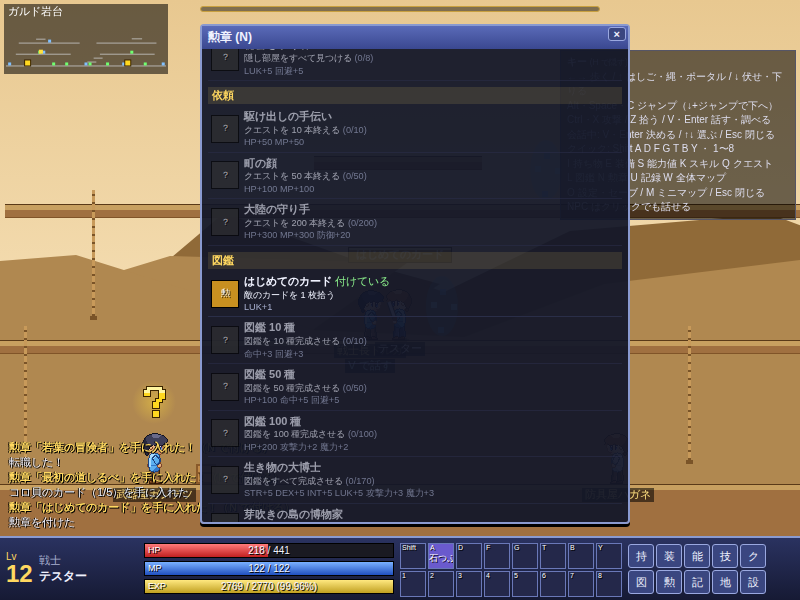
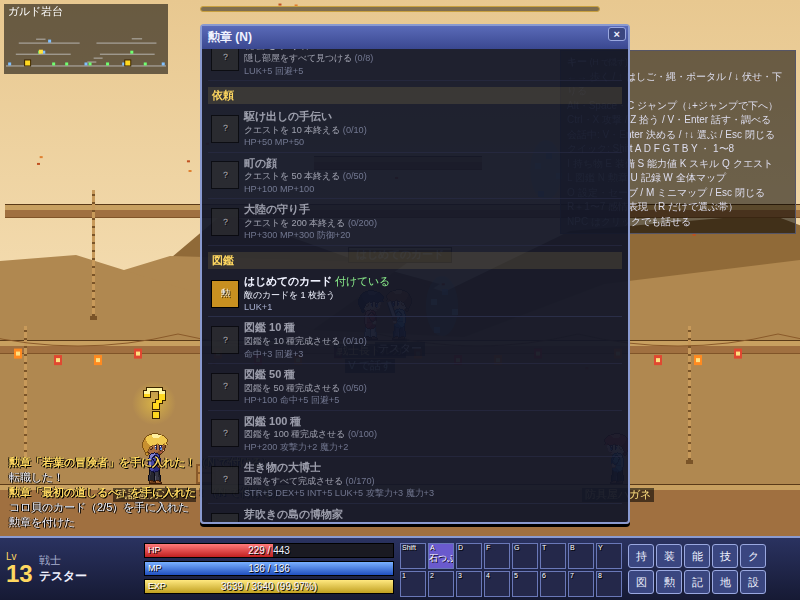
楽しさの要素: 設計書（CORE・ITEMS・MONSTERS・WORLD・UI）と README、試遊版の確かめ（感情表現・景品の機械・遊び場・美容院・船の旅・フィールドボス・天気）・写真、ダンジョンの課題を部屋の数だけくり返す
Claude-Session: https://claude.ai/code/session_01Nf7hFMjpxysQNjHqMqSLTZ

diff --git a/classic-unity/Web/wwwroot/js/fun.js b/classic-unity/Web/wwwroot/js/fun.js
@@ -41,6 +41,17 @@ export class Fun {
     this.hudEl.addEventListener('click', (e) => this.onClick(e));
     addEventListener('keyup', (e) => this.keyUp(e));
     this.patch();
+    // 町の機械・係・ダンジョンの仕掛け・季節の飾りは NPC と同じ所で描く（主人公より奥）
+    const R = game.renderer, drawNpcs = R.drawNpcs.bind(R);
+    R.drawNpcs = (g, f, ui) => {
+      const fr = this.fr;
+      if (fr) {
+        if (fr.season) this.drawSeason(g, fr.season, Math.round(R.cam.x));
+        if (fr.dungeon) this.drawDungeon(g, fr.dungeon);
+      }
+      drawNpcs(g, f, ui);
+      if (fr) for (const s of fr.spots || []) this.drawSpot(g, s, s.id === fr.near && !ui?.talking);
+    };
   }
 
   // ---------------- ほかの画面へのつなぎ（会話の窓の乗り物・Esc・会話の間は動かない）
@@ -157,9 +168,6 @@ export class Fun {
     const cx = Math.round(R.cam.x), cy = Math.round(R.cam.y);
     g.save();
     g.setTransform(S, 0, 0, S, -cx * S, -cy * S);
-    if (fr.season) this.drawSeason(g, fr.season, cx, cy);
-    for (const s of fr.spots || []) this.drawSpot(g, s, s.id === fr.near);
-    if (fr.dungeon) this.drawDungeon(g, fr.dungeon);
     // 珍しい色違いの個体（光る輪と印）・フィールドボス（名札）
     for (const m of f.mo) {
       const flags = m[9];
@@ -338,8 +346,11 @@ export class Fun {
     if (render) this.render();
   }
 
-  itemName(id) { return this.game.db.items[id]?.name || id; }
-  icon(id) { const d = this.game.db.items[id]; return `<span class="ic" style="background:${itemColor(d)}"></span>`; }
+  itemName(id) {
+    if (String(id).startsWith('card.')) return (this.game.db.monsters[id.slice(5)]?.name || id) + 'のカード（図鑑）';
+    return this.game.db.items[id]?.name || id;
+  }
+  icon(id) { const d = this.game.db.items[id]; return `<span class="ic" style="background:${String(id).startsWith('card.') ? '#f0e0b0' : itemColor(d)}"></span>`; }
 
   render() {
     const u = this.ui;
@@ -486,7 +497,7 @@ const CSS = `
 #funwin .memory { display: grid; grid-template-columns: repeat(4, 52px); gap: 4px; justify-content: center; margin: 6px 0; }
 #funwin .mc { height: 52px; font-size: 22px; background: #3a4680; } #funwin .mc.up { background: #f8f4e8; } #funwin .mc:disabled { opacity: 1; }
 #funwin .mc.mine { box-shadow: inset 0 0 0 3px #60c0ff; } #funwin .mc.npc { box-shadow: inset 0 0 0 3px #ff8060; }
-#funhud { position: absolute; right: 6px; top: 64px; width: 220px; display: flex; flex-direction: column; gap: 4px; align-items: flex-end; }
+#funhud { position: absolute; left: 6px; top: 80px; width: 220px; display: flex; flex-direction: column; gap: 4px; align-items: flex-start; }
 #funhud .voy, #funhud .emo { pointer-events: auto; background: var(--panel); border: 1px solid var(--edge); border-radius: 3px; padding: 4px 6px; width: 100%; }
 #funhud .vbar { height: 6px; background: #222; margin: 3px 0; } #funhud .vbar i { display: block; height: 100%; background: #60c0ff; }
 #funhud .bad { color: var(--bad); font-weight: bold; }

diff --git a/classic-unity/Web/wwwroot/index.html b/classic-unity/Web/wwwroot/index.html
@@ -11,7 +11,7 @@
       <label>名前 <input id="name" maxlength="12" value="ぼうけんしゃ"></label>
       <div class="btns"><button id="btnCont">続きから</button><button id="btnNew">新しく始める</button></div>
       <div id="confirmNew" class="confirm" hidden>今のセーブを消して最初から始めますか？ <button id="btnNewYes" class="warn">消して始める</button><button id="btnNewNo">やめる</button></div>
-      <div class="keys">←→ 歩く ・ ↑ はしご/縄/ポータル ・ ↓ 伏せ ・ Alt/Space ジャンプ ・ Ctrl 攻撃 ・ Z 拾う ・ V 話す（会話も V で進む・↑↓ で選ぶ）<br>クイックスロット Shift A D F G T B Y・1〜8 ・ I 持ち物 ・ E 装備 ・ S 能力値 ・ K スキル ・ Q クエスト ・ O 設定<br>L 敵の図鑑 ・ N 勲章 ・ U 記録 ・ W 全体マップ ・ M ミニマップ ・ H キーの表</div>
+      <div class="keys">←→ 歩く ・ ↑ はしご/縄/ポータル ・ ↓ 伏せ ・ Alt/Space ジャンプ ・ Ctrl 攻撃 ・ Z 拾う ・ V 話す（会話も V で進む・↑↓ で選ぶ）<br>クイックスロット Shift A D F G T B Y・1〜8 ・ I 持ち物 ・ E 装備 ・ S 能力値 ・ K スキル ・ Q クエスト ・ O 設定<br>L 敵の図鑑 ・ N 勲章 ・ U 記録 ・ W 全体マップ ・ M ミニマップ ・ H キーの表 ・ R＋1〜7 感情表現</div>
     </div>
   </div>
 </div>

diff --git a/classic-unity/Web/wwwroot/js/ui.js b/classic-unity/Web/wwwroot/js/ui.js
@@ -66,6 +66,7 @@ export class Ui {
       I 持ち物 E 装備 S 能力値 K スキル Q クエスト<br>
       L 図鑑 N 勲章 U 記録 W 全体マップ<br>
       O 設定・セーブ / M ミニマップ / Esc 閉じる<br>
+      R＋1〜7 感情表現（R だけで選ぶ帯）<br>
       NPC はクリックでも話せる`;
     const q = this.el('quick');
     q.innerHTML = QUICK_KEYS.map((k, i) => `<div class="qs" data-q="${i}"><em>${k}</em><span></span><small></small></div>`).join('');

diff --git a/classic-unity/Core/Game/GameSession.Fun.cs b/classic-unity/Core/Game/GameSession.Fun.cs
@@ -626,7 +626,7 @@ namespace Lumina.Core.Game
             for (int i = 0; i < bounds.Count; i++)
             {
                 var (x1, x2) = bounds[i];
-                var t = new DungeonRoomTask { X1 = x1, X2 = x2, Kind = i < bounds.Count - 1 && i < tasks.Count ? tasks[i] : null };
+                var t = new DungeonRoomTask { X1 = x1, X2 = x2, Kind = i < bounds.Count - 1 && tasks.Count > 0 ? tasks[i % tasks.Count] : null };
                 t.Done = t.Kind == null;
                 // 部屋の中の足場（地面以外）
                 var plats = new List<(double x, double y, double top)>();

diff --git a/classic-unity/docs/CORE.md b/classic-unity/docs/CORE.md
@@ -22,6 +22,7 @@ classic-unity/
     World/     MapData（マップの JSON の形）・MapInstance（敵・落ちている物・湧き直し）
     Save/      SaveData・SaveSerializer・SaveMigrations・SaveStore（壊れない書き方）・FileSystem
     Collection/ MonsterBook（敵の図鑑のカード・段）・BookIndex（図鑑に載る敵と地域）・Medals（勲章の条件）・PlayRecords（記録と統計）
+    Fun/       FunData（fun.json の形）・FunState（遊び場の点数・見た目・フィールドボスの時計。セーブの fun）・Gomoku（五目並べと係の考え）・MemoryGame（神経衰弱）
     Town/      SystemsData（systems.json の形）・Storage（倉庫・共有の AccountData）・PetState・DailyLog（実時間の 1 日 N 回）・QuizSession
     Game/      GameSession（全部をまとめる。Unity が持つのはこれ 1 つ。.Combat/.Skills/.Status/.Items/.Quests/.Mechanics/.Town/.Jobs/.Rooms/.Pets/.Records/.Collection に分けてある）・PlayerInput・GameEvents・AvatarPose
     Data/      GameData（JSON を読む）・IDataSource
@@ -86,7 +87,7 @@ session.Character / Stats / Inventory / Equipment / Skills / Buffs / Status / Qu
 
 - **入力**（`PlayerInput`）: 押している間の物（Left/Right/Up/Down/Jump/Attack/Pickup）と、押した瞬間の物（JumpPressed/UpPressed/InteractPressed/SkillPressed/ItemPressed）。押した瞬間の物は Core が次の固定の更新で読むまで覚えている。キー配置は `Unity/InputBridge.cs`。
 - **座標**: Core は 1 px = 1・y は下が正。Unity（PPU = 1）では `(x, -y)`。Pixel Perfect Camera は 800×600。
-- **UI から呼ぶ操作**: `Talk(npcId)` → `NpcDialog`（受けられる・報告できるクエスト、店、宿屋、乗り物、`Say` = 話しかけるたびに変わる一言、`Hint` = 進めているクエストの残り。受けた・報告した後に窓を作り直す時は `Talk(npcId, true)` で一言を進めない）／`AcceptQuest`／`CompleteQuest`／`Buy`／`Sell`／`RestAtInn`／`Travel`／`UseItem`／`UseSkill`／`SetQuickSlot`／`EquipFromInventory`／`Unequip`／`ApplyScrollToEquipped`／`ApplyScrollToInventory`／`SpendAp`／`SpendApHp`／`SpendApMp`／`LearnSkill`／`AdvanceJob`／`AdvanceJob2`（2 次: 試験の証と枝）／`Revive`／`SaveNow`／`NpcBulb`（頭の上のマーク: 1 = 受けられる「？」、2 = 報告できる電球）。
+- **UI から呼ぶ操作**: `Talk(npcId)` → `NpcDialog`（受けられる・報告できるクエスト、店、宿屋、乗り物、`Say` = 話しかけるたびに変わる一言、`Hint` = 進めているクエストの残り。受けた・報告した後に窓を作り直す時は `Talk(npcId, true)` で一言を進めない）／`AcceptQuest`／`CompleteQuest`／`Buy`／`Sell`／`RestAtInn`／`Travel`／`UseItem`／`UseSkill`／`SetQuickSlot`／`EquipFromInventory`／`Unequip`／`ApplyScrollToEquipped`／`ApplyScrollToInventory`／`SpendAp`／`SpendApHp`／`SpendApMp`／`LearnSkill`／`AdvanceJob`／`AdvanceJob2`（2 次: 試験の証と枝）／`Revive`／`SaveNow`／`Board`・`VoyageSkip`・`Gacha`・`DoEmote` などの楽しさの要素（4-13）／`NpcBulb`（頭の上のマーク: 1 = 受けられる「？」、2 = 報告できる電球）。
   NPC のセリフ: `Data/tools/world/npc_lines.mjs` → `npcs.json` の `lines` → `NpcDef.Lines`・`NpcData.Lines`（`Game/NpcLines.cs`。先頭の `[条件]`（lv・tier・line・done・doing）が合う一言を先に、話しかけた回数で順に変える。`{name}`・`{job}`・`{lv}` を置き換える）。
   町の仕組み（4-11）: `StorageDeposit`／`StorageWithdraw`／`StorageDepositMeso`／`StorageWithdrawMeso`／`StorageExpand`／`ShopItems`（今日の品）／`Recharge`（詰め直し）／`TaxiTo`・`TaxiFee`／`Craft`・`CraftsAt`／`SitOnChair`・`StandUp`（または椅子を `UseItem`）／`FeedPet`・`TalkToPet`・`SetPetOut`・`RenamePet`（ペットの品・餌・技の本は `UseItem`）／`StartQuiz`・`AnswerQuiz`（賢者の石を `Interact` すると始まる）／`UseMasterBook`／`CanEnterRoom`・`RoomEntriesLeft`。
   読む物: `session.Storage`・`Pets`（X/Y/Motion）・`Quiz`（Current: 問題と混ぜた選択肢）・`CurrentRoom`・`RoomTimeLeft`/`RoomTimerRunning`/`RoomCleared`・`Sitting`（Pose.Motion = "sit"）・`Daily`。
@@ -245,7 +246,7 @@ session.Character / Stats / Inventory / Equipment / Skills / Buffs / Status / Qu
   `{"format":"lumina-save","seq":12,"length":3456,"crc32":"89abcdef","data":{…}}`
 - 書く順番: `.tmp` に書いて fsync → 読み直して確かめる → bak を 1 つずつ後ろへ → 今のセーブを bak1 へ → `.tmp` で一度に置き換え。**どこで落ちても、前の版か新しい版のどちらかが必ず読める**（テストで全部の手順で「落ちた」を再現。ちぎれた書き込みも）。
 - 読む順番: 今のセーブと `.tmp` のうち壊れていなくて `seq` の大きい方 → bak1 → bak2 → bak3。壊れていたら `LoadResult.Recovered` と理由（`Problems`）。全部壊れていても落ちずに「読めない」を返す。
-- 版: `version`（今は 4。版 4 で やりこみ の `collection` を足した。4-12）。古い版は `SaveMigrations` で 1 つずつ直してから読む。新しすぎる版は断る（バックアップへ）。データに無いアイテムは外してお知らせ。
+- 版: `version`（今は 5。版 4 で やりこみ の `collection`（4-12）、版 5 で 楽しさの要素の `fun`（4-13）を足した）。古い版は `SaveMigrations` で 1 つずつ直してから読む。新しすぎる版は断る（バックアップへ）。データに無いアイテムは外してお知らせ。
 - 版 3: ペット（`pets`）と実時間の回数（`daily`: ボスの間・ダンジョン・毎日の宝箱）を足した。版 2 は空で足して読む。
 - **倉庫はキャラ全員で共有**: キャラのセーブとは別の枠 `account`（同じ壊れない書き方。`SaveStore.SaveText/LoadText`、中身は `AccountData`）。`AttachSave` で読み、`SaveNow` でキャラより先に書く（間で落ちると品が両方に残る向き。消えはしない）。
 - 制限時間のある部屋（ボスの間・ダンジョン・試験）の中では、場所を戻り先にして保存する。
@@ -328,7 +329,30 @@ session.CureStatus(GameSession.CurableAll);       // 治すスキル（意志の
 - セーブの版 4: `collection`（`cards`・`variants`・`medals`・`records`・`cardRng`）。版 3 は空で足して読む（記録は 0 から）。付けている勲章は装備（メダルの欄）として残る。
 - お知らせ（GameEvents）: `CardPicked`・`BookLevelUp`・`MedalEarned`・`MedalEquipped`・`JumpCleared`。
 - 決めた値: カードの確率（ふつう 1.2%・強敵 8%・ボス 30%・大ボス 60%）・段の区切り（3・8・15・25・40・60・85・115・145・170 種）・上乗せ・勲章の能力・試練のごほうび（ITEMS.md 9 章・WORLD.md 8 章）。
-- 美容院（髪型・顔）は別の担当。
+- 美容院（髪型・顔）は 4-13。
+
+### 4-13. 楽しさの要素 — `Core/Fun/`・`GameSession.Fun.cs`（データは `Data/fun.json` ← `Data/tools/fun.mjs`、敵は `classic/tools/data/fun_mobs.mjs`）
+
+横スクロールの MMO によくある遊びの「仕組みの形」だけを借りた物（名前・文章・景品・絵はオリジナル）。既存のファイルには呼び出しだけを足した（`TickFun`・`TryInteractFun`・`OnMobSpawnedFun`（`MapInstance.OnSpawned`）・`OnMobKilledFun`・`AfterEnterMapFun`・`FunPortalOpen`・`TryUseFunItem`・`TravelFromDeck`・`WriteFunSave`/`ReadFunSave`）。乱数は本体と別（`funRng`）なので、ほかの仕組みの乱数の流れは変わらない。`session.FunEvents = false` でフィールドボス・珍しい個体・季節の敵・ダンジョンの課題を止める（通しのボットは止めている）。
+
+| 仕組み | 呼ぶ物 | 読む物・決まり |
+|---|---|---|
+| **町の機械・係**（spots） | V（`InteractPressed`）で近くの物（横 50・縦 80 px。NPC の方が近ければ NPC） | `SpotsHere()`・`SpotNear()`・`LastSpot`（V で開いた物。読んだら null に）。NPC ではなく、書き出しの時に町の地面の空いている所（NPC・ポータルから 70 px 以上）に置く。種類: gacha（大陸の 6 町）・arcade（V200）・salon（V500）・boutique・marks（V090）・season（V100。季節の間だけ） |
+| **1. 景品の機械** | `Gacha(spot, out prize)`（`GachaResult`）・`BuyGachaTicket(spot, n)`（1,500 ルド。機械と見た目の品の店） | 町ごとの表（重み → 確率。ふつう 約 70%・少し珍しい 約 25%・大当たり 約 4%）。券 `use.gacha_ticket` は店・敵（0.2%）・フィールドボス・船の襲撃・遊び場・ダンジョンの宝箱。図鑑のカード（`card.<敵>`）は持ち物でなく図鑑へ（4-12）。大当たりは `Fun` の `jackpot:<品>`（Text = 画面全体に出す文）。`Fun.Pulls`・`Fun.Jackpots` |
+| **2. フィールドボス** | — | 8 体（M420〜M427。強敵＋段階と技。mob_skills.mjs）。決まったマップに、遊んでいる時間（`PlaySec`）で `minSec`〜`maxSec`（30〜90 分）おきに 1 体。湧く 60 秒前に `boss_warn`（そのマップにいる時）、`boss_spawn:<敵>`、倒すと `boss_down:<敵>` と次の時間・専用の品（`eq.fun.boss.<敵>` 30% ほか）。時間は `Fun.BossDue`（-1 = 湧いている。マップを離れて形が消えても、戻ると出る）。`FieldBossIn()` = 今のマップで湧くまでの秒。`mob.FieldBoss` |
+| **3. 船の旅と襲撃** | `Board(npc, ticket)`（旅の無い乗り物は `Travel` と同じ）・`VoyageSkip()`・`HasVoyage(npc)`。`Travel` は今までどおりすぐ着く（「すぐ着く」を選んだ時・ボット） | 雲の船の 6 人（noa・luna・sora・kippu・hashi・p_boat）。乗ると C118（船の上・BGM ship）へ、75〜110 秒で着く。途中 2 回、空の魔物が乗り込む（`voyage_raid`）。全部倒すとお礼のお金と券（`voyage_clear`）。船の上の水夫と話して乗り物を選ぶとそのまま着く。`session.Voyage`（`To`・`Left`・`Total`・`RaidActive`）。旅の途中で保存すると着いた所から読む |
+| **4. 感情表現** | `DoEmote(id)` | 7 つ（smile・cry・angry・surprise・shy・sleepy・wink）。`Emote`・`EmoteT`（4 秒で null）。顔の部品の名前は fun.json の `emotes[].face`（Unity 側も同じ名前で顔を選ぶ） |
+| **5. 遊び場** | `StartArcade(spot, "gomoku"/"memory", "easy"/"normal")`・`GomokuPlay(x, y)`・`MemoryFlip(i)`・`MemoryContinue()`・`ArcadeExchange(spot, i)` | `session.Arcade`（`Gomoku`: `Cells`・`Result`・`WinLine`・`LastX/Y`／`Memory`: `Cards`・`Owner`・`FaceUp(i)`・`PeekA/B`・`NpcFlips`）。五目並べは 15×15・禁じ手なし・係は「自分の並び＋相手の並びを止める」の点で選ぶ（やさしいは 3 つ以下の守りを時々見のがし、ゆらぎが大きい）。神経衰弱は 8 組・係は見た札を 35% / 70% の確率で覚える。終わると点数（`Fun.Points`）・勝ちの数（`Fun.Wins`） |
+| **6. 季節の祭り** | `CurrentSeason()`（実際の日付の月・`HourOffset` 込み）・`SeasonStatus()`・`SeasonTurnIn(spot)` | 秋（9〜11 月）実りの祭り・冬（12〜2 月）雪の祭り。季節の間だけ: 町の飾り（`deco`）・祭りの係・季節の敵（M430 / M431。決めた狩り場で湧いた敵のそばに 8% で混ざる）・頼みごと（季節の品 20 個 → 初回は記念の帽子と椅子、2 回目からは 1 日 1 回券 2 枚。`Fun.SeasonFirst` に「autumn.2026」など） |
+| **7. 美容院** | `SalonChange(spot, "hair"/"hairColor"/"face"/"skin", 値, 券を使う)` | 髪型 7・髪の色 8・顔 5・肌 4。お金（5,000 / 3,000 / 8,000 / 3,000）か券。`Fun.Look`（`Hair`・`HairColor`・`Face`・`Skin`）は保存する |
+| **8. 珍しい色違いの個体** | — | どの狩り場でも、湧いた敵が 1/300 で `mob.Rare`（ボス・強敵は除く）: HP ×3・攻撃 ×1.3、倒すと経験値 ×5・ドロップを 3 回・お金 ×3・券 50%。`rare:<敵>` / `rare_down:<敵>`。図鑑の `Book.Variants`（`rare_seen`・`rare_killed`）と Flags `rare.<敵>` に残す |
+| **9. 1 人用ダンジョン** | V で仕掛けを調べる | `session.Dungeon`（入るたびに作る）: 壁で区切った部屋ごとの課題（kill = 部屋の敵を湧く所の数（3〜8）倒す・switch = 3 つのスイッチを番号の順（違えば最初から）・carry = 荷物を 25 秒のうちに出口の印へ・climb = いちばん高い足場の旗に立つ）。終わるまで次の部屋へのポータルは閉じる（`dungeon_locked`）。主を倒すとごほうびの宝箱 3 つ（`Chests`。お金と品）と踏破の印 1 つ。印は市場の交換所で品と（`MarkExchange`） |
+| **10. 見た目の品** | 持ち物の「設置」の品を `UseItem`（着ける・もう一度で外す。減らない）・`BoutiqueBuy(spot, i)` | 帽子・服・名札・吹き出し（`Fun.Look.Hat/Outfit/Tag/Bubble` = アイテムの ID。絵の名前は fun.json の `looks`）。売る・預けて持っていなければ保存の時に外す（`CheckLook`） |
+| **11. 天気** | `Weather()`・`WeatherAt(map, 時刻)`・`WeatherBgmVolume()` | rain / snow / petals / fog / null。マップの ID の決まり（fun.json の `weather.rules`）と、実時間の 1 時間ごとの決まった乱数（マップと時間の種）。中の型（洞くつ・塔・部屋・ボス・船）は降らない。雨は BGM ×0.75 |
+
+- お知らせ: `GameEventType.Fun`（Id = 上の名前。`gacha:<品>`・`jackpot:<品>`・`boss_warn`・`boss_spawn:<敵>`・`boss_down:<敵>`・`voyage_start`・`voyage_raid`・`voyage_clear`・`voyage_arrive`・`emote:<id>`・`rare:<敵>`・`rare_down:<敵>`・`arcade`・`season`・`salon`・`look`・`dungeon_task`・`dungeon_progress`・`dungeon_reset`・`dungeon_chest`・`spot`）。
+- セーブの版 5: `fun`（`points`・`look`・`boss`・`pulls`・`jackpots`・`wins`・`seasons`）。版 4 は空で足して読む（いつもの姿・点数 0）。
+- 決めた値（似）: 確率・券の値段・フィールドボスの間隔と専用の品・船の旅の秒と襲撃・遊び場の点数・美容院の値段・珍しい個体の倍率・ダンジョンの課題の数と時間・天気の確率（すべて fun.mjs）。
 
 ## 5. クラシックに比べてまだ違う所・次にやること
 
@@ -339,10 +363,10 @@ session.CureStatus(GameSession.CurableAll);       // 治すスキル（意志の
 - **2〜4 次のスキル**: 全部入れて効かせた（敵の強化を消す・遅延・変化の呪い・錯乱弾・秘術の扉の戻りの扉・身代わり人形・乗船の HP・隠れ足・毒の霧の設置・クローの熟練の 1 束・調合上手・MP 吸収で敵の MP を減らす）。残り: 溜めの大魔法は溜める長さを選べない（いつも 2 秒で ×2）。盗賊団・爆弾カモメは即時の攻撃。当たる範囲・ディレイ・状態異常の秒（JOBS.md に無い物）・身代わり人形の引きつける距離（450 px）・船の HP（2000+200x）・隠れ足の落ちる速さ（120 px/秒）・敵の反射の上限（最大 HP の 20%）は「似」で決めた値。
 - **攻撃の絵**: Core は攻撃の種類（振り・突き・撃ち・投げ・詠唱・殴り）を `Pose.AttackKind` で出しているが、絵の名前は ART_SPEC の `swingO1` だけ。
 - **闇隠れの「速さ −20+x」**: ブラウザ版の速さの計算（100 より下にしない）に合わせているので、遅くはならない。
-- **町と成長の仕組み（4-11）の簡略**: 1 人用ダンジョンの部屋ごとの課題（合い札・縄の組み合わせ・鍵集め・迷路のつながりが変わる 等）は無く、最後の主を倒すとクリア。ごほうびの部屋・ランダムの報酬・メダルの交換（6-7）・R-22 のメダル 2 枚は無い。修練場の職ごとの仕掛け（テレポート台・動く的・暗い倉庫 等）は無い。もう一人の自分は自分のスキルを使わない（ふつうの強敵）。市場の素材屋の 1 割高の買い取り・露店の冒険者は無い。製作は例の分だけ（手袋 6・靴 4 などの一覧はまだ）。ペットの装備・芸の絵は Unity 側。
+- **町と成長の仕組み（4-11）の簡略**: 1 人用ダンジョンの部屋ごとの課題は 4 種（倒す・スイッチの順・運ぶ・高い足場。4-13）だけで、合い札・縄の組み合わせ・迷路のつながりが変わる 等は無い。ごほうびの部屋は主の部屋に宝箱が出る形、交換は踏破の印（4-13）。R-22 のメダル 2 枚は無い。修練場の職ごとの仕掛け（テレポート台・動く的・暗い倉庫 等）は無い。もう一人の自分は自分のスキルを使わない（ふつうの強敵）。市場の素材屋の 1 割高の買い取り・露店の冒険者は無い。製作は例の分だけ（手袋 6・靴 4 などの一覧はまだ）。ペットの装備・芸の絵は Unity 側。
 - **極意の書**: クラシックどおり★は最初 10、20 の書で 20、その後 30 の書で 30（JOBS.md の表を 10/30 に直した）。
 - **マップの見た目**: 足場の配置は生成なので、絵（タイル・背景の層・飾り）を置く時に「ここに家」「ここに風車」などの手直しが要るかもしれない。直す時は `specs.mjs`（型・層の数・横幅）か、その 1 枚だけ島のように手で置く。
-- **乗り物**: 雲の船・潜水船などは 1 人 1 行き先のまま（雲の船の駅は行き先ごとに係がいる）。複数の行き先はタクシーだけ。船の「10 分ごとに出る・乗っている 2 分」は無い（すぐ着く）。
+- **乗り物**: 雲の船・潜水船などは 1 人 1 行き先のまま（雲の船の駅は行き先ごとに係がいる）。複数の行き先はタクシーだけ。雲の船は乗るとすぐ出る（「10 分ごとに出る」の待ちは無い）。船の上の旅は 75〜110 秒（4-13）。潜水船・大きな鳥・そりはすぐ着く。
 - **崩れる足場**（T104）は物理に無いので、おもちゃ箱の底へは地面の右端の隠しの落とし穴から入る。
 - **命中**: 初心者が当たらなすぎたので、レベルで上がる基礎の命中を足した（`Formulas.BaseAcc`・combat.mjs の `baseAcc`）。初めは 5 + Lv × 0.5 だったが、通しの検証（PLAYTEST.md）で Lv が上がるほど近接職の MISS が増えたので 5 + Lv × 1.0 に上げ、敵の回避を Lv × 0.5 → 0.36 に下げた（STATS.md 2-3 の表: DEX を Lv÷3 振った戦士は同じ Lv の敵に 100%、5 上で約 70%）。
 - 敵の HP バー・ボスの HP バー・NPC の会話の窓・UI の窓は Unity 側の仕事（Core は値を出している）。

diff --git a/classic/docs/ITEMS.md b/classic/docs/ITEMS.md
@@ -1151,3 +1151,26 @@ STATS.md の「お金の目安」と合わせて決めた。
 | そのほか | ダンジョンの踏破者 | 1 人用ダンジョンをクリアする | 命中+3 回避+3 |
 | そのほか | 勲章の収集家 | 勲章を 20 個集める | 全能力+2 |
 
+## 10. 楽しさの要素の品（景品の機械・見た目の品・フィールドボス・遊び場・ダンジョン）
+
+データは `classic-unity/Data/tools/fun.mjs`（→ items.json と fun.json）。名前・絵はオリジナル。数は「決めた値」。
+
+- **景品の機械の券**（`use.gacha_ticket`）: 町の景品の機械に 1 枚入れると 1 つ出る。景品の機械・市場の見た目の品の店で 1,500 ルド。どの敵からも 0.2%、フィールドボス 60%（2 枚）、船の襲撃を守ると 20〜30%、遊び場の景品（40 点）、ダンジョンのごほうびの宝箱、祭りの頼みごと（2 回目から）。
+- **景品の機械**（大陸の町に 1 台ずつ、6 台）: 町ごとの表。確率は窓に出す（ふつう 約 70%: その地域の敵の図鑑のカード 3 種・薬・強化の薬 ／ 少し珍しい 約 25%: 見た目の帽子・椅子・名札・吹き出し・服・60% の書 ／ 大当たり 約 4%: その町の強い装飾品（全能力＋）・カプセルの椅子）。大当たりは画面全体に知らせる。
+
+| 町 | 機械 | 大当たり |
+|---|---|---|
+| V100 ブリーズ港 | 港のガラガラ | 港風のマント（Lv10・全能力+2・防御+8・回避+4） |
+| C100 セレス | 雲の上のくじ箱 | 雲織りの首飾り（Lv30・全能力+3・HP/MP+60） |
+| T100 ティンクル | ぜんまい仕掛けの景品箱 | ぜんまいの耳飾り（Lv30・全能力+3・魔防+20・命中+5） |
+| F100 ヒョウガ村 | 雪の村の福引き | 霜の花のマント（Lv50・全能力+4・防御/魔防+25） |
+| M100 マリナ | 海の底の貝くじ | 真珠の首飾り（Lv60・全能力+5・HP/MP+150） |
+| D100 竜の背の村 | 竜の背の宝くじ | 竜鱗の耳飾り（Lv100・全能力+6・攻撃力/魔力+3） |
+
+- **見た目の品**（設置のタブ。使うと着ける・もう一度で外す。減らない。能力なし）: 帽子 12（どんぐり帽子・ねこ耳の帽子・紙の王冠・コック帽・とんがり帽子・葉っぱの帽子・小さな船長帽・星の髪飾り・カボチャの帽子・雪の結晶の帽子・切り株の帽子・金の羊毛の帽子）、服 6（水兵の服・祭りの法被・黒い礼服・畑仕事の服・雪の外套・星空の服）、名札 5（木・金・花・星・氷。名前の下の札）、吹き出し 5（雲・ハート・巻物・光る・葉っぱ。会話と感情表現の吹き出し）。市場の**見た目の品の店**で売る物（3,000〜30,000 ルド）と、景品・遊び場・印・フィールドボス・祭りでしか出ない物がある。
+- **椅子** 10（カプセル・木のブランコ・キノコの腰かけ・わたぐも・大貝・氷の玉座・太鼓・灯籠の縁台・雪の玉・翼竜の巣）: 座ると回復 1.5 倍。
+- **美容院の券**: 髪型の券（髪型か髪の色を 1 回）・顔の券（顔か肌の色を 1 回）。遊び場の景品・ダンジョンの宝箱。
+- **フィールドボスだけが落とす装飾品** 8（ねじれ根の腕輪・ガンタの牙の首飾り・ぬめり玉の耳飾り・金の羊毛のマント・大熊の毛皮の手袋・古傷の歯の首飾り・風切り羽のマント・迷い星の指輪。30%）と、ボスごとの見た目の品・椅子（15%）。
+- **踏破の印**（その他）: 1 人用ダンジョンを踏破すると 1 つ。市場の印の交換所で券（1）・大エリクサー（2）・60% の書（3）・ドロップ 2 倍の券（4）・金の名札（8）・星空の服（10）と替える。
+- **遊び場の景品**（点数）: 券 40・経験値 2 倍の券 120・美容院の券 100・花の名札 / 葉っぱの吹き出し 150・畑仕事の服 / 葉っぱの帽子 200・木のブランコ / 太鼓の椅子 300。
+- **祭りの品**: 秋はおばけカボチャの「実りのカボチャの種」、冬は雪だるまのコロンの「雪の祭りの結晶」を 20 個 → 初回はカボチャの帽子と灯籠の縁台（冬は雪の結晶の帽子と雪の玉の椅子）。

diff --git a/classic/docs/WORLD.md b/classic/docs/WORLD.md
@@ -498,3 +498,33 @@
 
 - `classic-unity/Data/tools/world/worldmap.mjs` → `Data/worldmap.json`: 地域（REGIONS の 10 地域）ごとのマップの点の位置（0〜1000 × 0〜600）・地域の中のつながり・地域をまたぐつながり・乗り物の線・出る敵・隠しポータル。位置は町から近い順の列を最初の位置にして、ばねの力で広げて決める（種が決まっているので何度でも同じ）。ジャンプの試練は入口の町の地域に置く。
 - 印（Core の `GameSession.WorldMarks()`）: 今いる所・行ったことがある（冒険の記録の `visit.*`）・受けられるクエストの依頼者・報告できる所・進めているクエストの目的地（倒す敵の出る所・行く所・話す相手・調べる物）。
+
+## 9. 楽しさの要素（町の機械・船の旅・天気・季節の飾り）
+
+データは `classic-unity/Data/tools/fun.mjs` → `Data/fun.json`。マップの JSON（足場・NPC）は変えていない。
+
+- **町の機械・係**（NPC ではない。書き出しの時に、その町の地面の空いている所（NPC・ポータル・調べる物から 70 px 以上・平らな所）に置く。V で調べる）:
+
+| 置く所 | 物 |
+|---|---|
+| V100 ブリーズ港・C100 セレス・T100 ティンクル・F100 ヒョウガ村・M100 マリナ・D100 竜の背の村 | 景品の機械（大陸ごとに 1 台。ITEMS.md 10 章） |
+| V200 ポム丘 | 遊び場の係コマ爺（五目並べ・神経衰弱・景品の交換） |
+| V500 クロウ街 | 美容院のカミラ（髪型・髪の色・顔・肌の色） |
+| V090 にぎわい市場 | 見た目の品のキラ（名札・吹き出し・帽子・服・券）・印の交換所のトオル（踏破の印） |
+| V100 ブリーズ港 | 祭りの係ミノリ（秋・冬の祭りの間だけ） |
+
+- **船の旅**: 雲の船（森都 ⇄ セレス・セレス ⇄ ティンクル・セレス ⇄ 神殿）は、係の「船の旅で行く」で C118（雲の船の上・BGM ship）に乗り、75〜110 秒で着く。途中 2 回、空の魔物が乗り込んでくる（全部倒すとお礼のお金と、たまに券）。待てない人は係の「すぐ着く」か、船の上の「すぐ着く」・水夫カゼ。潜水船・大きな鳥・そり・島の船は今までどおりすぐ着く。
+- **天気**（見た目と BGM の音量だけ）: 実時間の 1 時間ごとに、マップと時間の種で決まる。ヒョウガ村の地域（F）はいつも雪、霧の沼と深い森（V508〜V510・V620・V306・V307）は 70% で霧、森の地域（V3xx）は 40% で花びら、丘（V2xx）は 20% で花びら、ほかのヴェルデ・島は 20% で雨、竜の谷（D）は 30% で雨。洞くつ・塔・部屋・ボスの間・船は降らない。雨は BGM を少し小さく。
+- **季節の飾り**: 秋（9〜11 月）は町の上に灯籠と落ち葉、冬（12〜2 月）は白い玉と小雪。季節の敵は MONSTERS.md 7 章。
+- **1 人用ダンジョンの部屋の課題**: 壁で区切った部屋ごとに 1 つ（倒す・スイッチの順・荷物を運ぶ・高い足場の旗）。終わるまで次の部屋へのポータルは閉じる。最後の部屋の主を倒すと、その部屋にごほうびの宝箱 3 つ。
+
+| ダンジョン | 部屋 1 | 部屋 2 | 部屋 3 | 部屋 4 |
+|---|---|---|---|---|
+| V516 | 倒す | スイッチ | 運ぶ | 高い足場 |
+| T121 | スイッチ | 倒す | 高い足場 | 運ぶ |
+| T122 | 運ぶ | スイッチ | 倒す | 高い足場 |
+| C119 | 高い足場 | 倒す | スイッチ | 運ぶ |
+| M115 | 倒す | 運ぶ | スイッチ | 高い足場 |
+| D117 | スイッチ | 高い足場 | 運ぶ | （主の部屋） |
+
+部屋の多いダンジョン（T121 は 9 部屋・T122 と C119 は 6 部屋）は、この 4 つを順にくり返す。最後の部屋（主）には課題が無い。

diff --git a/classic/docs/UI.md b/classic/docs/UI.md
@@ -124,6 +124,7 @@
 | B | 敵の図鑑（試遊版は L。B はクイックスロット） |
 | N | 勲章（試遊版） |
 | U | 記録と統計（試遊版） |
+| R ＋ 1〜7 | 感情表現（試遊版。にっこり・泣く・怒る・驚く・照れる・眠い・ウインク。R だけで選ぶ帯） |
 | Enter | チャット欄 |
 | Esc | ウィンドウを閉じる / メニュー |
 | F12 | 画面写真 |
@@ -182,6 +183,21 @@
 - **転職**: 光のエフェクト、職名が大きく出る。
 - **1 人用ダンジョン**: 画面の上に残り時間と今の部屋の課題。
 - **ボス**: 画面の上に大きな HP バー・段階・残り時間。
+
+### 7-1. 楽しさの要素の画面（試遊版 `js/fun.js`。中身は Core の `GameSession.Fun.cs`）
+
+- **町の機械・係**（NPC ではない。V で調べると窓が開き、開いている間は動かない。V・Esc で閉じる）:
+  - **景品の機械**（大陸の町 6 か所）: 出る物の一覧と**確率（%）**・段（ふつう / 少し珍しい / 大当たり）の合計・「回す（券 1 枚）」・券を買う（1 枚 / 10 枚）・出た物。**大当たりは画面全体に金色の帯で知らせる**（6 秒）。
+  - **遊び場**（ポム丘）: 五目並べ（15×15 の盤。黒 = 自分。最後の手に赤い枠、勝った並びは緑）・神経衰弱（4×4 の札。そろわなかったら「続ける」で係の番、係のめくった札を出す）・やさしい / ふつう・点数で景品の交換。
+  - **美容院**（クロウ街）: 髪型・髪の色・顔（目）・肌の色のタブ。お金か券で変える。
+  - **見た目の品の店**（市場）・**印の交換所**（市場）・**祭りの係**（港。季節の間だけ）。
+- **船の旅**: 右上に「◯◯行きの船 あと N 秒」・進みの棒・襲撃中・「すぐ着く」。乗り物の係の会話に「船の旅で行く」と「すぐ着く」。
+- **感情表現**: R ＋ 1〜7、R だけで右上に 7 つの帯。顔が数秒変わり、頭の上に吹き出し（吹き出しの品で形と色が変わる。NPC の会話の窓の一言も同じ色）。
+- **見た目**: 名札の品を着けると名前の下の札の色が変わる。帽子・服は絵に出る。
+- **フィールドボス**: 湧く 60 秒前に「大きな気配」の知らせと右上の残り秒、湧くと大きな字。名前の下に ◆ の札。
+- **珍しい色違いの個体**: 光る輪と「★珍しい」の札。
+- **1 人用ダンジョン**: 部屋ごとに課題の札（達成で緑）・番号の付いたスイッチ・荷物と出口の印・旗・ごほうびの宝箱。
+- **天気・季節**: 雨・雪・花びら・霧（画面の上に軽い粒。雨・霧は BGM を少し小さく）。季節の間は町の上に灯籠（秋）・白い玉（冬）の飾りと落ち葉・小雪。
 
 ## 8. 効果音（UI）
 
